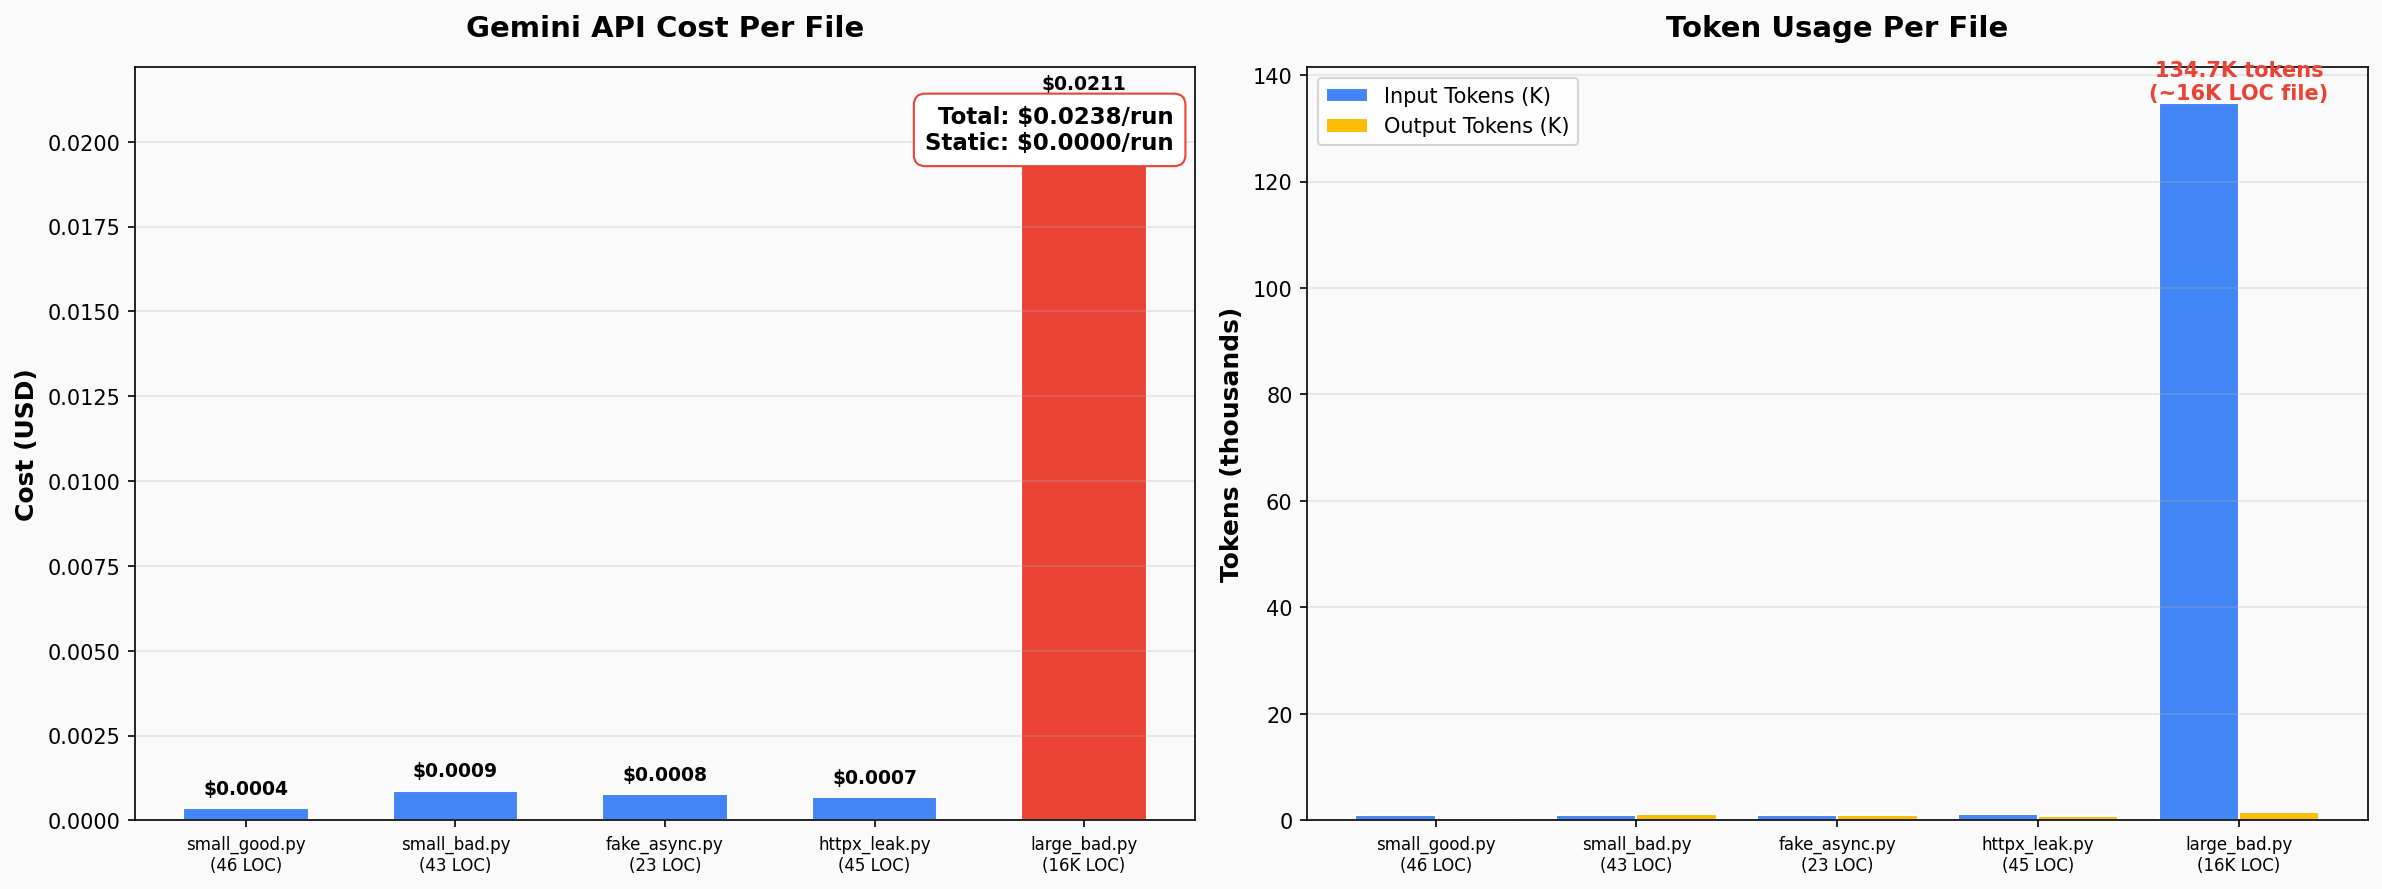
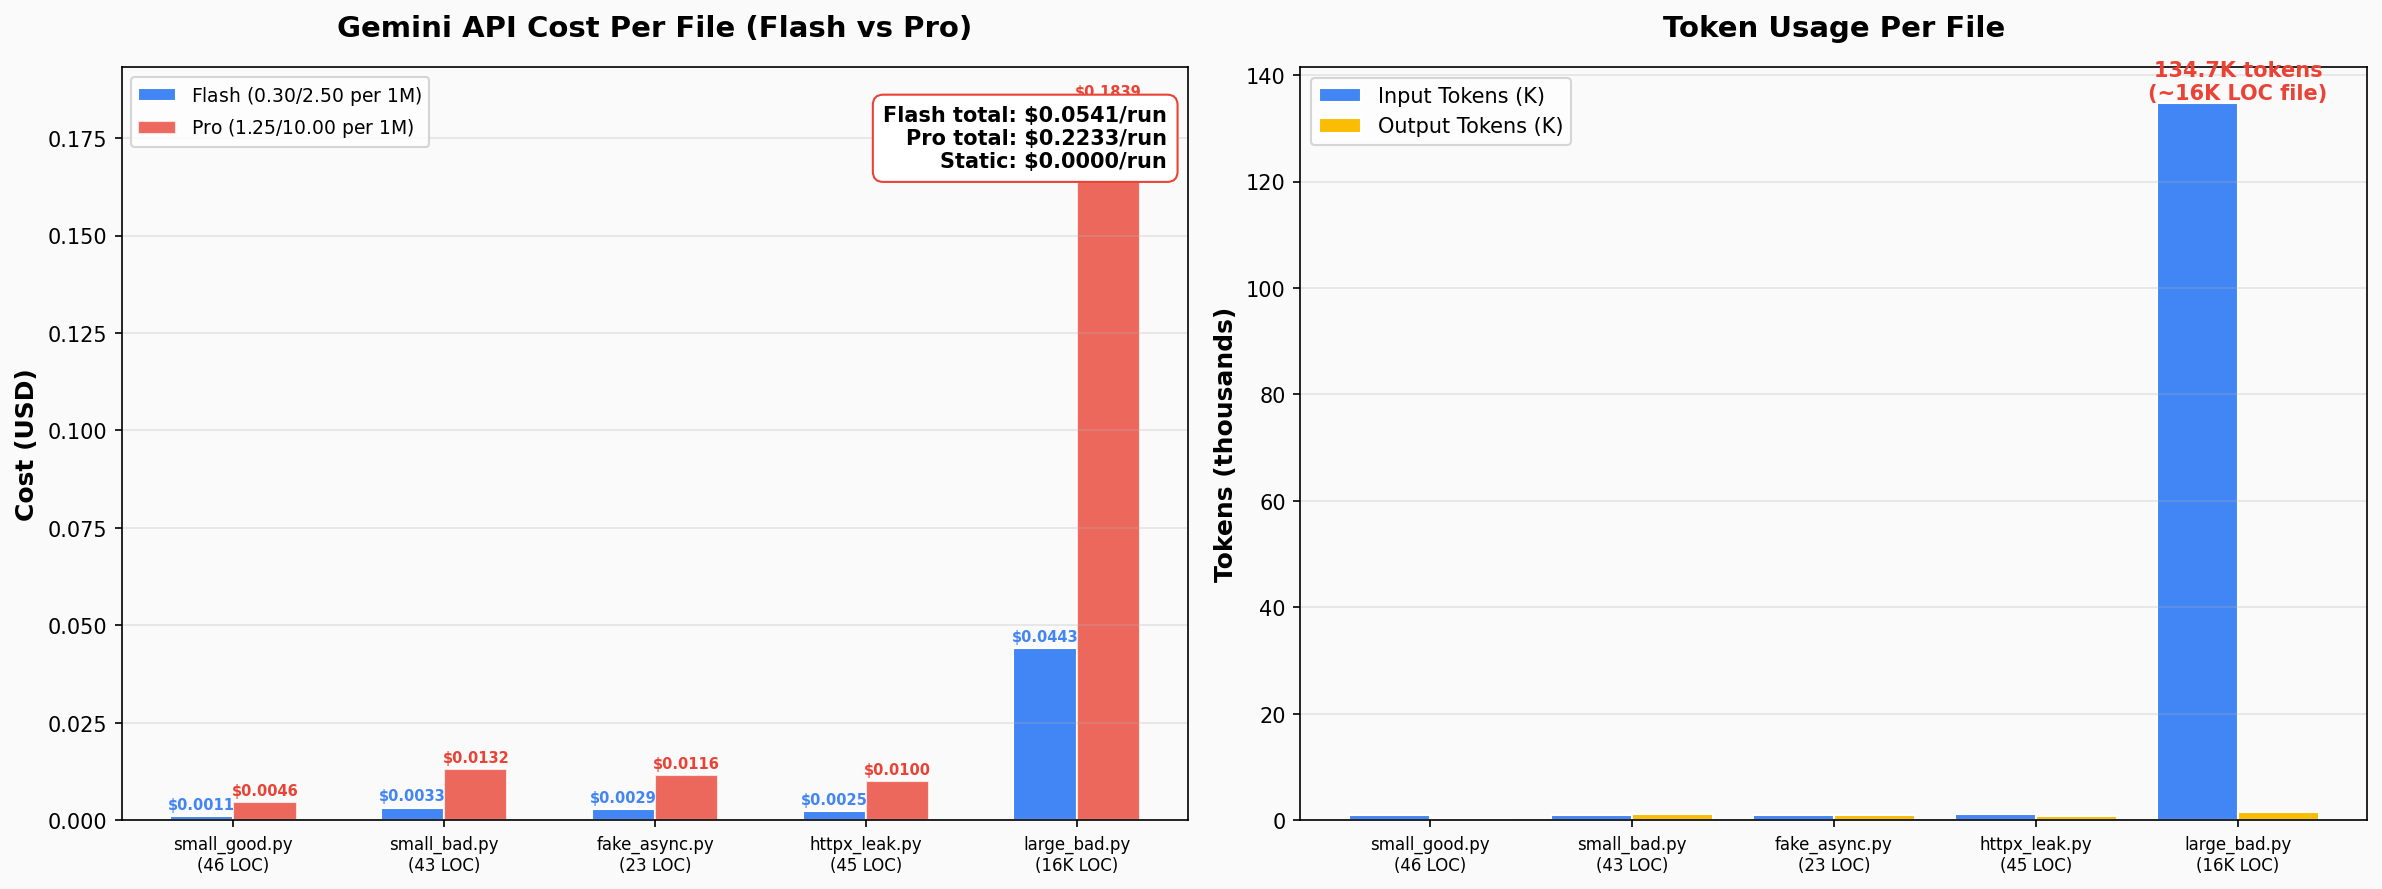
Fix Gemini API pricing and add dual Flash/Pro cost comparison
Corrected Flash pricing from $0.15/$0.60 to $0.30/$2.50 per 1M tokens.
Added Pro pricing ($1.25/$10.00 per 1M) alongside Flash in all outputs:
gemini_audit.py, main.py summary, report_charts.py, and README.md.
Total cost per run: $0.054 (Flash) / $0.223 (Pro) vs $0.00 (static).

diff --git a/main.py b/main.py
@@ -120,7 +120,8 @@ def _print_file_result(name: str, data: dict) -> None:
     print(f"    Latency:       {gemini.latency_seconds:.2f}s")
     print(f"    Input tokens:  {gemini.input_tokens:,}")
     print(f"    Output tokens: {gemini.output_tokens:,}")
-    print(f"    Cost:          ${gemini.estimated_cost_usd:.6f}")
+    print(f"    Cost (Flash):  ${gemini.estimated_cost_usd:.6f}")
+    print(f"    Cost (Pro):    ${gemini.pro_estimated_cost_usd:.6f}")
     print(f"    JSON parsed:   {'Yes' if gemini.parse_success else 'NO — PARSE FAILED'}")
     print(f"    Issues found:  {len(gemini.issues)}")
     if gemini.error:
@@ -157,12 +158,13 @@ def _print_summary(results: dict) -> None:
     print(f"{'=' * 100}")
     print()
 
-    header = f"  {'File':<20} {'Lines':>7} {'Planted':>8} │ {'Gemini Det':>10} {'Gemini Time':>12} {'Gemini Cost':>12} │ {'Static Det':>10} {'Static Time':>12}"
+    header = f"  {'File':<20} {'Lines':>7} {'Planted':>8} │ {'Gemini Det':>10} {'Gemini Time':>12} {'Flash Cost':>12} {'Pro Cost':>12} │ {'Static Det':>10} {'Static Time':>12}"
     print(header)
-    print(f"  {'─' * 18}  {'─' * 7} {'─' * 8} ┼ {'─' * 10} {'─' * 12} {'─' * 12} ┼ {'─' * 10} {'─' * 12}")
+    print(f"  {'─' * 18}  {'─' * 7} {'─' * 8} ┼ {'─' * 10} {'─' * 12} {'─' * 12} {'─' * 12} ┼ {'─' * 10} {'─' * 12}")
 
     total_gemini_time = 0.0
-    total_gemini_cost = 0.0
+    total_flash_cost = 0.0
+    total_pro_cost = 0.0
     total_static_time = 0.0
     total_gemini_detected = 0
     total_static_detected = 0
@@ -181,21 +183,22 @@ def _print_summary(results: dict) -> None:
 
         print(
             f"  {name:<20} {data['line_count']:>7} {len(planted):>8} │ "
-            f"{g_det:>10} {gemini.latency_seconds:>10.2f}s ${gemini.estimated_cost_usd:>10.6f} │ "
+            f"{g_det:>10} {gemini.latency_seconds:>10.2f}s ${gemini.estimated_cost_usd:>10.6f} ${gemini.pro_estimated_cost_usd:>10.6f} │ "
             f"{s_det:>10} {static.latency_ms:>10.1f}ms"
         )
 
         total_gemini_time += gemini.latency_seconds
-        total_gemini_cost += gemini.estimated_cost_usd
+        total_flash_cost += gemini.estimated_cost_usd
+        total_pro_cost += gemini.pro_estimated_cost_usd
         total_static_time += static.latency_ms
         total_gemini_detected += len(gemini_match["matched"])
         total_static_detected += len(static_match["matched"])
         total_planted += len(planted)
 
-    print(f"  {'─' * 18}  {'─' * 7} {'─' * 8} ┼ {'─' * 10} {'─' * 12} {'─' * 12} ┼ {'─' * 10} {'─' * 12}")
+    print(f"  {'─' * 18}  {'─' * 7} {'─' * 8} ┼ {'─' * 10} {'─' * 12} {'─' * 12} {'─' * 12} ┼ {'─' * 10} {'─' * 12}")
     print(
         f"  {'TOTAL':<20} {'':>7} {total_planted:>8} │ "
-        f"{total_gemini_detected}/{total_planted:>8} {total_gemini_time:>10.2f}s ${total_gemini_cost:>10.6f} │ "
+        f"{total_gemini_detected}/{total_planted:>8} {total_gemini_time:>10.2f}s ${total_flash_cost:>10.6f} ${total_pro_cost:>10.6f} │ "
         f"{total_static_detected}/{total_planted:>8} {total_static_time:>10.1f}ms"
     )
 
@@ -203,7 +206,9 @@ def _print_summary(results: dict) -> None:
     if total_gemini_time > 0:
         speedup = (total_gemini_time * 1000) / max(total_static_time, 0.1)
         print(f"\n  Static analysis is {speedup:,.0f}x faster than Gemini")
-    print(f"  Total Gemini API cost: ${total_gemini_cost:.6f}")
+    print(f"  Gemini API cost (Flash): ${total_flash_cost:.6f} / run")
+    print(f"  Gemini API cost (Pro):   ${total_pro_cost:.6f} / run")
+    print(f"  Static analysis cost:    $0.000000 / run")
 
     # Verdict
     print(f"\n{SEPARATOR}")
@@ -211,7 +216,7 @@ def _print_summary(results: dict) -> None:
     print(SEPARATOR)
     print("  The LLM-only audit pipeline (PR #741) has fundamental scaling problems:")
     print(f"    1. Latency: {total_gemini_time:.1f}s total for Gemini vs {total_static_time:.0f}ms for static analysis")
-    print(f"    2. Cost: ${total_gemini_cost:.6f} per run (scales linearly with file size and PR count)")
+    print(f"    2. Cost: ${total_flash_cost:.6f} (Flash) / ${total_pro_cost:.6f} (Pro) per run")
     print(f"    3. Detection: Gemini found {total_gemini_detected}/{total_planted} issues vs static {total_static_detected}/{total_planted}")
     print("    4. fake_async.py: Neither approach detects hidden sync wrappers — runtime analysis needed")
     print("    5. Reliability: LLM output requires JSON parsing, is non-deterministic, and may hallucinate")

diff --git a/report_charts.py b/report_charts.py
@@ -30,14 +30,25 @@ PLANTED = [0, 4, 1, 3, 5]
 GEMINI_FOUND = [0, 4, 0, 2, 0]
 STATIC_FOUND = [0, 4, 0, 3, 5]
 
-# Cost/tokens from v2 run
-GEMINI_COST = [0.000356, 0.000870, 0.000767, 0.000682, 0.021137]
+# Cost/tokens from v2 run (recalculated with correct pricing)
+# Flash: $0.30/1M input, $2.50/1M output
+# Pro:   $1.25/1M input (<200K), $10.00/1M output
 GEMINI_INPUT_TOKENS = [1071, 1026, 969, 1114, 134692]
 GEMINI_OUTPUT_TOKENS = [326, 1193, 1036, 858, 1555]
 
+GEMINI_FLASH_COST = [
+    t_in * 0.30 / 1e6 + t_out * 2.50 / 1e6
+    for t_in, t_out in zip(GEMINI_INPUT_TOKENS, GEMINI_OUTPUT_TOKENS)
+]
+GEMINI_PRO_COST = [
+    t_in * 1.25 / 1e6 + t_out * 10.00 / 1e6
+    for t_in, t_out in zip(GEMINI_INPUT_TOKENS, GEMINI_OUTPUT_TOKENS)
+]
+
 TOTAL_GEMINI_TIME = sum(GEMINI_LATENCY_S)
 TOTAL_STATIC_TIME = sum(STATIC_LATENCY_S)
-TOTAL_GEMINI_COST = sum(GEMINI_COST)
+TOTAL_FLASH_COST = sum(GEMINI_FLASH_COST)
+TOTAL_PRO_COST = sum(GEMINI_PRO_COST)
 SPEEDUP = TOTAL_GEMINI_TIME / TOTAL_STATIC_TIME
 
 # Colors
@@ -147,26 +158,34 @@ def chart_cost():
     fig, (ax1, ax2) = plt.subplots(1, 2, figsize=(16, 6))
     fig.patch.set_facecolor(BG_COLOR)
 
-    # Left: Cost per file
+    # Left: Cost per file (Flash + Pro side by side)
     ax1.set_facecolor(BG_COLOR)
     x = np.arange(len(FILES))
-    colors = [GEMINI_COLOR if c < 0.01 else DANGER_COLOR for c in GEMINI_COST]
-    bars = ax1.bar(x, GEMINI_COST, color=colors, edgecolor="white", width=0.6)
+    width = 0.3
 
-    for bar, cost in zip(bars, GEMINI_COST):
-        ax1.text(bar.get_x() + bar.get_width()/2., bar.get_height() + 0.0003,
-                 f"${cost:.4f}", ha="center", va="bottom", fontsize=9, fontweight="bold")
+    bars_flash = ax1.bar(x - width/2, GEMINI_FLASH_COST, width, label="Flash ($0.30/$2.50 per 1M)",
+                         color=GEMINI_COLOR, edgecolor="white")
+    bars_pro = ax1.bar(x + width/2, GEMINI_PRO_COST, width, label="Pro ($1.25/$10.00 per 1M)",
+                       color=DANGER_COLOR, edgecolor="white", alpha=0.8)
+
+    for bar, cost in zip(bars_flash, GEMINI_FLASH_COST):
+        ax1.text(bar.get_x() + bar.get_width()/2., bar.get_height() + 0.001,
+                 f"${cost:.4f}", ha="center", va="bottom", fontsize=7, fontweight="bold", color=GEMINI_COLOR)
+    for bar, cost in zip(bars_pro, GEMINI_PRO_COST):
+        ax1.text(bar.get_x() + bar.get_width()/2., bar.get_height() + 0.001,
+                 f"${cost:.4f}", ha="center", va="bottom", fontsize=7, fontweight="bold", color=DANGER_COLOR)
 
     ax1.set_ylabel("Cost (USD)", fontsize=12, fontweight="bold")
-    ax1.set_title("Gemini API Cost Per File", fontsize=14, fontweight="bold", pad=15)
+    ax1.set_title("Gemini API Cost Per File (Flash vs Pro)", fontsize=14, fontweight="bold", pad=15)
     ax1.set_xticks(x)
     ax1.set_xticklabels(FILES, fontsize=8)
+    ax1.legend(fontsize=9)
     ax1.grid(axis="y", alpha=0.3)
 
     # Annotation for total
-    ax1.annotate(f"Total: ${TOTAL_GEMINI_COST:.4f}/run\nStatic: $0.0000/run",
+    ax1.annotate(f"Flash total: ${TOTAL_FLASH_COST:.4f}/run\nPro total: ${TOTAL_PRO_COST:.4f}/run\nStatic: $0.0000/run",
                  xy=(0.98, 0.95), xycoords="axes fraction", ha="right", va="top",
-                 fontsize=11, fontweight="bold",
+                 fontsize=10, fontweight="bold",
                  bbox=dict(boxstyle="round,pad=0.5", facecolor="white", edgecolor=DANGER_COLOR))
 
     # Right: Token usage
@@ -214,7 +233,8 @@ def chart_scorecard():
         ("Speed Factor", "1x", f"{SPEEDUP:.0f}x faster", "STATIC"),
         ("Detection Rate", f"{sum(GEMINI_FOUND)}/{sum(PLANTED)} ({sum(GEMINI_FOUND)/sum(PLANTED)*100:.0f}%)",
          f"{sum(STATIC_FOUND)}/{sum(PLANTED)} ({sum(STATIC_FOUND)/sum(PLANTED)*100:.0f}%)", "STATIC"),
-        ("Cost Per Run", f"${TOTAL_GEMINI_COST:.4f}", "$0.0000", "STATIC"),
+        ("Cost/Run (Flash)", f"${TOTAL_FLASH_COST:.4f}", "$0.0000", "STATIC"),
+        ("Cost/Run (Pro)", f"${TOTAL_PRO_COST:.4f}", "$0.0000", "STATIC"),
         ("16K LOC Detection", "0/5 matched", "5/5 matched", "STATIC"),
         ("httpx Client Leak", "0/1 detected", "1/1 detected", "STATIC"),
         ("Deterministic", "No", "Yes", "STATIC"),

diff --git a/gemini_audit.py b/gemini_audit.py
@@ -18,6 +18,7 @@ class GeminiAuditResult:
     input_tokens: int = 0
     output_tokens: int = 0
     estimated_cost_usd: float = 0.0
+    pro_estimated_cost_usd: float = 0.0
     parse_success: bool = False
     status: str = "UNKNOWN"
     summary: str = ""
@@ -137,6 +138,7 @@ def run_gemini_audit(file_path: str, prompt_template: str) -> GeminiAuditResult:
         result.output_tokens = getattr(meta, "candidates_token_count", 0) or 0
 
     # Calculate cost based on which model was used
+    # Pricing source: https://ai.google.dev/gemini-api/docs/pricing
     if used_model == "gemini-2.5-pro":
         # Pro pricing: Input $1.25/1M (<200K), $2.50/1M (>200K), Output $10.00/1M
         if result.input_tokens <= 200_000:
@@ -148,10 +150,21 @@ def run_gemini_audit(file_path: str, prompt_template: str) -> GeminiAuditResult:
             )
         output_cost = result.output_tokens * 10.00 / 1_000_000
     else:
-        # Flash pricing: Input $0.15/1M, Output $0.60/1M
-        input_cost = result.input_tokens * 0.15 / 1_000_000
-        output_cost = result.output_tokens * 0.60 / 1_000_000
+        # Flash pricing: Input $0.30/1M, Output $2.50/1M
+        input_cost = result.input_tokens * 0.30 / 1_000_000
+        output_cost = result.output_tokens * 2.50 / 1_000_000
     result.estimated_cost_usd = input_cost + output_cost
+
+    # Also calculate what Pro would have cost (for comparison in report)
+    if result.input_tokens <= 200_000:
+        pro_input_cost = result.input_tokens * 1.25 / 1_000_000
+    else:
+        pro_input_cost = (
+            200_000 * 1.25 / 1_000_000
+            + (result.input_tokens - 200_000) * 2.50 / 1_000_000
+        )
+    pro_output_cost = result.output_tokens * 10.00 / 1_000_000
+    result.pro_estimated_cost_usd = pro_input_cost + pro_output_cost
 
     # Extract response text
     try:

diff --git a/README.md b/README.md
@@ -15,22 +15,23 @@ Test cases are derived from the **[Sarvam Tools SDK (TOOLING_API.md)](TOOLING_AP
 | **Total latency** | 134.5s | 172ms |
 | **Speed ratio** | 1x | **784x faster** |
 | **Detection rate** | 6/13 (46%) | **12/13 (92%)** |
-| **Cost per run** | $0.024 | $0.00 |
+| **Cost per run (Flash)** | $0.054 | $0.00 |
+| **Cost per run (Pro)** | $0.223 | $0.00 |
 | **JSON parse success** | 4/5 (with robust parser) | N/A (deterministic) |
 | **16K LOC file** | 0/5 planted issues matched | **5/5 planted issues matched** |
 | **httpx client leak** | 0/1 detected | **1/1 detected** |
 
 ### Per-File Breakdown
 
-| File | Lines | Planted | Gemini Found | Gemini Time | Gemini Cost | Static Found | Static Time |
-|---|---|---|---|---|---|---|---|
-| `small_good.py` | 46 | 0 | n/a | 42.1s | $0.000356 | n/a | 17.6ms |
-| `small_bad.py` | 43 | 4 | **4/4** | 21.0s | $0.000870 | **4/4** | 29.5ms |
-| `fake_async.py` | 23 | 1 | **0/1** | 34.4s | $0.000767 | 0/1 | 21.0ms |
-| `httpx_leak.py` | 45 | 3 | 2/3 | 15.3s | $0.000682 | **3/3** | 16.3ms |
-| `large_bad.py` | 16,090 | 5 | **0/5** | 21.7s | $0.021137 | **5/5** | 87.2ms |
+| File | Lines | Planted | Gemini Found | Gemini Time | Flash Cost | Pro Cost | Static Found | Static Time |
+|---|---|---|---|---|---|---|---|---|
+| `small_good.py` | 46 | 0 | n/a | 42.1s | $0.0011 | $0.0046 | n/a | 17.6ms |
+| `small_bad.py` | 43 | 4 | **4/4** | 21.0s | $0.0033 | $0.0132 | **4/4** | 29.5ms |
+| `fake_async.py` | 23 | 1 | **0/1** | 34.4s | $0.0029 | $0.0116 | 0/1 | 21.0ms |
+| `httpx_leak.py` | 45 | 3 | 2/3 | 15.3s | $0.0025 | $0.0100 | **3/3** | 16.3ms |
+| `large_bad.py` | 16,090 | 5 | **0/5** | 21.7s | $0.0443 | $0.1839 | **5/5** | 87.2ms |
 
-> **Note:** Gemini 2.5 Pro was rate-limited during testing; results use Flash as fallback. Pro pricing is ~8x higher ($1.25-2.50/1M input, $10/1M output), making the cost argument even stronger.
+> **Note:** Gemini 2.5 Pro was rate-limited during testing; results use Flash as fallback. Both Flash and Pro costs are shown — Pro pricing ($1.25-2.50/1M input, $10/1M output) makes the cost argument even stronger at **$0.22/run**.
 
 ---
 
@@ -75,9 +76,9 @@ PUT /tools (file upload)
 
 The Gemini API call takes **15-42 seconds per file**. For a production CI/CD pipeline processing multiple tool files per PR, this creates an unacceptable bottleneck. Static analysis completes the same work in under 112ms — **784x faster**.
 
-### 2. Cost ($0.024 per run, scales linearly)
+### 2. Cost ($0.054 Flash / $0.223 Pro per run, scales linearly)
 
-The 16K LOC file alone cost $0.021 in tokens (134K input tokens). In production with multiple files, multiple PRs per day, and multiple environments, this accumulates rapidly. With Gemini 2.5 Pro pricing, the same file would cost **~$0.185** per audit. Static analysis is free.
+The 16K LOC file alone costs $0.044 (Flash) or $0.184 (Pro) in tokens (134K input tokens). In production with multiple files, multiple PRs per day, and multiple environments, this accumulates rapidly. A team running 10 audits/day with Pro pricing would spend **~$2.23/day** or **~$67/month** on audit API calls alone. Static analysis is free.
 
 ### 3. Detection Quality on Large Files (0/5 on 16K LOC)
 
@@ -232,6 +233,6 @@ Replace the LLM-only audit in PR #741 with a **layered approach**:
 | **1. Static analysis** | ruff + custom rules | Blocking calls, security, resource leaks, httpx leaks | <100ms | Free |
 | **2. AST pattern matching** | Custom Python AST visitor | CPU-bound ops in async, missing context managers | <200ms | Free |
 | **3. Runtime analysis** | pytest + asyncio instrumentation | Hidden sync wrappers, actual blocking behavior | Seconds | Free |
-| **4. LLM review** (optional) | Gemini/Claude | Complex architectural issues, code quality feedback | 10-50s | $$$ |
+| **4. LLM review** (optional) | Gemini/Claude | Complex architectural issues, code quality feedback | 10-50s | $0.05-0.22/run |
 
 Layer 1 alone catches **92% of the issues** that PR #741's LLM pipeline targets, at **784x the speed** and **zero cost**. The LLM should be an optional enhancement for nuanced code review, not the primary deployment gate.
